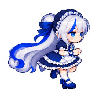
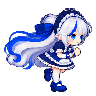
fix(runner): refresh Rin sprint cycle
Rebuild Rin's twelve running poses against Toa's motion reference with wider strides and leg crossover while keeping her character design and atlas dimensions.

Plan: 2026-10-26-running-action-redesign

diff --git a/assets/character/locomotion/RUN_CYCLE_V3.md b/assets/character/locomotion/RUN_CYCLE_V3.md
@@ -4,7 +4,7 @@ These four transparent 4-column by 3-row source sheets replace the earlier eight
 
 | Character | Source sheet | Runtime prefix |
 | --- | --- | --- |
-| Aokumo Rin | `aokumo-rin-run-cycle-v3.png` | `run-00`–`run-11` |
+| Aokumo Rin | `aokumo-rin-run-cycle-v4.png` | `run-00`–`run-11` |
 | Shizuki Toa | `shizuki-toa-run-cycle-v3.png` | `goth-student-run-00`–`goth-student-run-11` |
 | Ayatsuno Yuni | `ayatsuno-yuni-run-cycle-v6.png` | `moonwing-run-00`–`moonwing-run-11` |
 | Akane Lize | `akane-lize-run-cycle-v4.png` | `akane-lize-run-00`–`akane-lize-run-11` |
@@ -18,6 +18,8 @@ Yuni and Lize received a second image-generation edit pass after the initial fou
 Yuni's `v4` motion still read as a small twitch because both boots occupied similar positions throughout the loop. `yuni-run-pose-guide-v1.svg` and its PNG rendering specify a twelve-step near/far leg crossover: the blue near leg starts forward and moves behind, while the lavender far leg starts behind and moves forward, then they exchange again. The built-in image generation tool used this guide, Yuni's portrait, and her idle sprite as references for `ayatsuno-yuni-run-cycle-v5.png`. The earlier Yuni sheets remain for comparison. A source alpha threshold removes faint generated color residue before runtime scaling.
 
 The `v5` crossover was visible but still read as walking: the torso stayed upright and the stride and knee lift were small. `ayatsuno-yuni-run-cycle-v6.png` uses Toa's `shizuki-toa-run-cycle-v3.png` as the mandatory twelve-pose action reference, while Yuni's portrait and idle sprite define her identity. The brief specified Toa's forward lean, high knee recovery, broad stride, pumping arms, and short flight phase, while keeping Yuni's horn, wings, and outfit. The atlas now uses `v6` with the same 768ms cycle and source alpha cleanup.
+
+Rin's `v3` had too many similar front-leg poses and a narrow stride hidden by her skirt. The built-in image generation tool produced `aokumo-rin-run-cycle-v4.png` with Toa's twelve-pose run as the motion reference and Rin's old run sheet, portrait, and idle frame as identity references. The prompt requested a forward lean, wider strides, high-knee recovery, alternating near/far shoes below the skirt, opposing arm drive, and a consistent foot baseline. The atlas uses `v4` and an alpha threshold of 64 to remove faint blue source residue. The earlier `v3` remains for comparison.
 
 ## Runtime preparation
 

diff --git a/.memory/phases/2026-10-26-running-action-redesign/P01-characters-and-entry/T02-runner-action-poses.md b/.memory/phases/2026-10-26-running-action-redesign/P01-characters-and-entry/T02-runner-action-poses.md
@@ -4,7 +4,7 @@
 
 ## Follow-up: natural run cycle
 
-- The first pass used four key poses and four independently generated in-between poses. A later follow-up replaced that run row for all four characters with cohesive twelve-pose source sheets (`assets/character/locomotion/*-run-cycle-v3.png`). Lize received a `v4` revision. Yuni's `v4` lacked a visible leg crossover, so a twelve-pose near/far leg guide was used to produce `v5`. That still read as walking; Yuni `v6` uses Toa's strong running poses as the action reference. Runtime frames are `run-00` through `run-11` at 96x96; the selector loops them in 768ms. Old source sheets remain as versioned reference assets. The future runner must use the twelve-frame atlas cycle.
+- The first pass used four key poses and four independently generated in-between poses. A later follow-up replaced that run row for all four characters with cohesive twelve-pose source sheets (`assets/character/locomotion/*-run-cycle-v3.png`). Lize received a `v4` revision. Yuni's `v4` lacked a visible leg crossover, so a twelve-pose near/far leg guide was used to produce `v5`. That still read as walking; Yuni `v6` uses Toa's strong running poses as the action reference. Rin `v4` also uses Toa's running poses to make the leg crossover and knee drive visible below her skirt. Runtime frames are `run-00` through `run-11` at 96x96; the selector loops them in 768ms. Old source sheets remain as versioned reference assets. The future runner must use the twelve-frame atlas cycle.
 
 ## Goal
 
